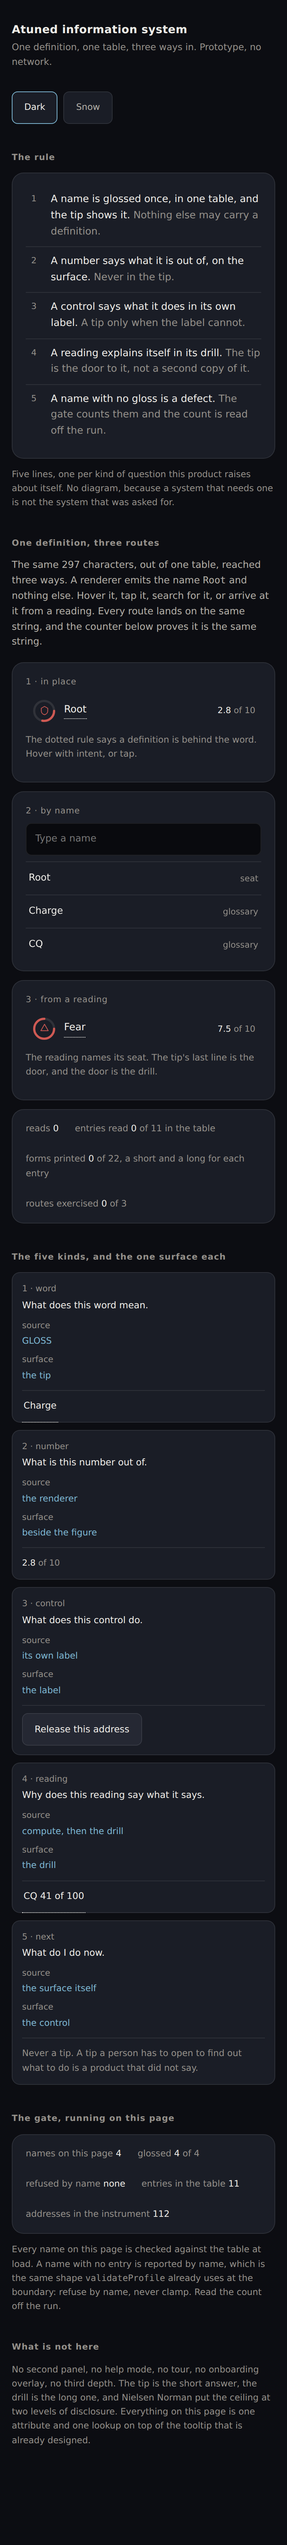
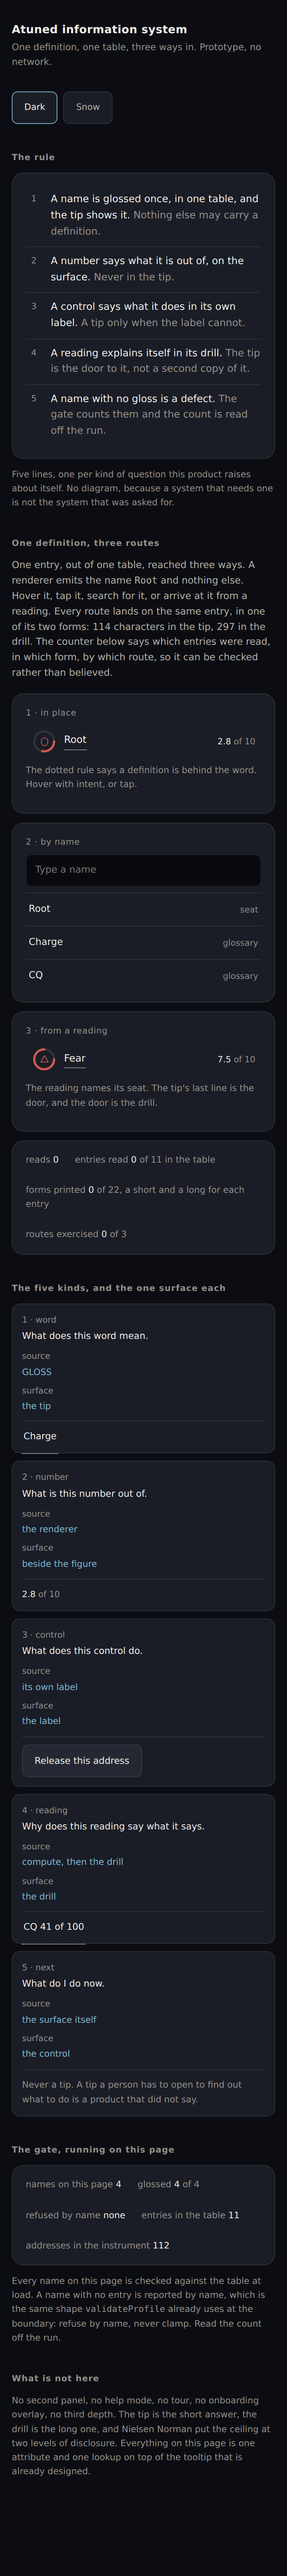
Gate counts read off the run, not typed
Engine 843 and design 105. The design count was typed as 103 from a guess one
commit ago, which is the exact defect this file spends a paragraph warning
about. Read off the run.

The other files are seats still working. Snapshot, not finished.

Claude-Session: https://claude.ai/code/session_016LLF9NZj8M8zDK26vbWgWq

diff --git a/proto/avatar/one-armature.html b/proto/avatar/one-armature.html
@@ -485,7 +485,24 @@ function numsHtml(v){
   +r('Carrying',v.carrying,'addresses')
   +r('Chain, held',v.chainHeld,'')
   +r('Chain, overshot',v.chainOver,'')
-  +(v.heaviest?r('Heaviest',v.heaviest.k.slice(0,16),v.heaviest.b):'');}
+  +(v.heaviest?r('Heaviest',cut(v.heaviest.k,17),v.heaviest.b):'');}
+/* a name cut mid word is a name the surface has lied about the length of */
+function cut(s,n){
+ s=String(s); if(s.length<=n)return s;
+ var t=s.slice(0,n); var sp=t.lastIndexOf(' ');
+ return (sp>4?t.slice(0,sp):t)+'…';}
+/* LABELS COLLIDE WHEN THE THING THEY NAME IS CLOSE TOGETHER. The seven seats
+   run from 4.98 to 53.55 on the figure, so the crown, the brow and the throat
+   sit 25 pixels apart while a two line label is 30 tall. The rail pushes them
+   down to a floor and keeps the order, which is what a rail is for and what a
+   painted name could never do. cone.js:213 records the 89 colliding pairs that
+   taught this project the rule. */
+function spread(ys,gap,lo,hi){
+ var o=ys.slice();
+ for(var i=1;i<o.length;i++) if(o[i]-o[i-1]<gap) o[i]=o[i-1]+gap;
+ var over=o[o.length-1]-hi;
+ if(over>0) for(var j=o.length-1;j>=0;j--) o[j]=Math.max(lo+j*gap,o[j]-over);
+ return o;}
 
 function pegs(){
  var h='';
@@ -681,10 +698,10 @@ function report(){
 /* ============================================================
    APPROACH ONE. THE ARMATURE.
 
-   A body, and only the parts of a body that carry a reading: a
-   spine, seven seats on it, and the frame that hangs off them. No
-   face, no mass, no clothing, no sex, no age. An armature is what
-   a figure is built on, which is the right object for a record,
+   A body reduced to the parts that carry a reading: a spine,
+   seven seats on it, and the frame that hangs off them. No face,
+   no mass, no clothing, no sex, no age. An armature is what a
+   figure is built on, which is the right object for a record,
    because an armature is a thing you add to.
 
    The body is not a metaphor here. Every one of the 112 addresses
@@ -692,28 +709,36 @@ function report(){
    straight out of PMBANDS, the same numbers the pain map places
    its regions with.
 
-   THREE CHANNELS, THREE MARKS, AND THEY CANNOT BE CONFUSED.
-   RECORD   the line work. Continuous where a release has reached,
-            broken where it has not. Broken is not damage, it is
-            unbuilt.
-   REACH    the outer dotted ring at each seat. Where that seat
-            could get with nothing held. Turn a peg seated there
-            and it moves out, under the hand, now.
-   WEATHER  the grey calipers pressing in from outside the ring.
-            Pressure is never drawn in a seat colour, because
-            pressure is not a property of the seat.
+   THREE CHANNELS, AND THE SECOND VERSION SPLIT THEM IN TWO PLACES
+   RATHER THAN STACKING THEM. The first version drew a reach ring,
+   a standing ring and a ring of calipers concentric at every seat:
+   twenty one circles and up to a hundred and twelve spokes on a
+   three hundred pixel figure, which is a sea urchin and is exactly
+   what BULKY means. The record stays on the body, where it belongs,
+   and everything numeric moved to a gauge beside it.
+
+   BODY    the record. Line work continuous where a release has
+           reached, broken where it has not, and one ring per seat
+           carrying the arcs for touched and emptied.
+   GAUGE   the reach and where you stand. A dotted line out to what
+           this seat reaches with nothing held, a solid line out to
+           where it is, and a bead at the end of the solid one. Turn
+           a peg seated here and the dotted line grows under your
+           hand.
+   BAR     today. A grey bar under the gauge, as long as the share
+           of the seat that is carrying, as dark as what it holds.
    ============================================================ */
-var HERO_W=300, HERO_H=500, STRIP_W=128, STRIP_H=224, SHEET_W=98, SHEET_H=172;
+var HERO_W=344, HERO_H=500, STRIP_W=140, STRIP_H=210, SHEET_W=106, SHEET_H=160;
 var KEYHTML=
  '<div class="key">'
- +'<div><b>Line work, the record</b>Continuous where a release has reached, broken where it '
- +'has not. Nothing in this product can make a continuous segment broken again.</div>'
- +'<div><b>Outer dotted ring, the reach</b>How far that seat gets with nothing held. It is '
- +'the mark the pegs move, and it is the only one they move.</div>'
- +'<div><b>Solid inner ring, where you stand</b>Between the two is what a release still has '
- +'in it at that seat.</div>'
- +'<div><b>Grey ticks, today</b>One inward tick per share of the seat that is carrying. '
- +'They come back on a hard month and they move no line.</div>'
+ +'<div><b>The body, the record</b>Line work continuous where a release has reached, broken '
+ +'where it has not, and an arc on each seat ring for what has been touched and emptied. '
+ +'Nothing in this product can make a continuous segment broken again.</div>'
+ +'<div><b>The gauge, the reach</b>Dotted to what the seat reaches with nothing held, solid '
+ +'to where it stands, a bead at the end of the solid. The gap between them is what a '
+ +'release still has in it. The pegs move the dotted end and nothing else does.</div>'
+ +'<div><b>The grey bar, today</b>As long as the share of that seat which is carrying, as '
+ +'dark as what it holds. It comes back on a hard month and it moves no line.</div>'
  +'</div>';
 
 var SEG=[
@@ -733,11 +758,22 @@ var SEG=[
  {b:'Root',    m:1, p:[[55.2,90.6],[58.4,96.4],[51.4,96.8],[51.6,90.6]]},
  {b:'Sacral',  m:0, p:[[43.4,55.8],[50,59.6],[56.6,55.8]]}];
 
+/* the figure and the gauge share one vertical space and split the horizontal */
+function geo(W,H){
+ var pad=13, fh=H-pad*2;
+ var bodyW=Math.min(fh*0.44,W*0.60);
+ var gx0=Math.min(W-6, pad+bodyW+ (W>240?16:8));
+ return {pad:pad, fh:fh, fw:bodyW, cx:pad+bodyW/2,
+  gx0:gx0, gw:Math.max(10,W-6-gx0),
+  X:function(u){return pad+bodyW/2+(u-50)/100*bodyW*2;},
+  Y:function(q){return pad+q/100*fh;}};}
+function seatY(g,b){return g.Y(SEATY[b]*100);}
+
 function labels(v){
- var pad=14, fh=HERO_H-pad*2, h='';
- v.seats.forEach(function(s){
-  var y=pad+SEATY[s.b]*fh;
-  h+='<span style="top:'+y.toFixed(1)+'px;color:'+SEATCOL[s.b]
+ var g=geo(HERO_W,HERO_H), h='';
+ var ys=spread(v.seats.map(function(s){return seatY(g,s.b);}),30,14,HERO_H-14);
+ v.seats.forEach(function(s,i){
+  h+='<span style="top:'+ys[i].toFixed(1)+'px;color:'+SEATCOL[s.b]
    +(v.seatPick===s.b?';font-weight:600':'')+'">'+s.b
    +'<i>reaches '+s.reach+', stands at '+s.at+', of 100<br>'
    +s.touched+' touched, '+s.opened+' emptied, of '+s.n+'</i></span>';});
@@ -748,10 +784,6 @@ function flat(v){
    +', stands at '+s.at+', of 100. '+s.touched+' touched, '+s.opened+' emptied, of '
    +s.n+'</i></div>';}).join('');}
 
-function fig(W,H){
- var pad=14, fh=H-pad*2, fw=Math.min(fh*0.5,(W-pad*2));
- return {fh:fh,fw:fw,X:function(u){return W/2+(u-50)/100*fw*2;},
-  Y:function(q){return pad+q/100*fh;}};}
 function drawSeg(x,g,seg,built,a,wd){
  x.beginPath();
  seg.p.forEach(function(pt,i){var px=g.X(pt[0]),py=g.Y(pt[1]);
@@ -762,10 +794,10 @@ function drawSeg(x,g,seg,built,a,wd){
 
 function draw(x,W,H,v,t,mode){
  if(!v)return;
- var g=fig(W,H), small=(mode!=='hero');
+ var g=geo(W,H), small=(mode!=='hero');
  x.lineCap='round'; x.lineJoin='round';
  /* THE SPINE. The one thing a person arrives with, so it is a datum and never
-    an achievement. Faint, and the same on every figure in the roster. */
+    an achievement. Faint, and identical on every figure in the roster. */
  x.strokeStyle=rgba('#E8E6E1',0.14); x.lineWidth=small?0.8:1;
  x.beginPath(); x.moveTo(g.X(50),g.Y(3)); x.lineTo(g.X(50),g.Y(58)); x.stroke();
 
@@ -775,57 +807,65 @@ function draw(x,W,H,v,t,mode){
   var built=(s.touched>0||s.opened>0);
   var a=built?lerp(0.48,0.95,Math.min(1,(s.touched+s.opened)/s.n)):0.9;
   x.strokeStyle=SEATCOL[seg.b];
-  drawSeg(x,g,seg,built,a,small?1.1:1.5);
+  drawSeg(x,g,seg,built,a,small?1:1.4);
   if(seg.m)drawSeg(x,g,{b:seg.b,p:seg.p.map(function(pt){return [100-pt[0],pt[1]];})},
-   built,a,small?1.1:1.5);});
+   built,a,small?1:1.4);});
 
+ /* ONE RING PER SEAT, AT THE PAIN MAP'S OWN RADIUS, and it carries the record
+    and nothing else. The whole circumference is the whole seat, so an arc on
+    it already says what it is out of. */
  BANDS.forEach(function(b,i){
-  var s=byB[b], cx=g.X(50), cy=g.Y(SEATY[b]*100);
-  var br=breath(v.CQ,t,i);
-  var base=(SEATR[b]/100)*g.fw*1.02*(1+br);
-  /* THE REACH. The outer dotted ring. Where this seat gets with nothing held.
-     It is the only mark on the figure a peg moves, and it moves at once. */
-  var rReach=base*lerp(0.72,1.42,s.reach/100);
-  x.strokeStyle=rgba(SEATCOL[b],v.seatPick===b?0.40:0.26);
-  x.lineWidth=small?0.8:1; x.setLineDash([1.2,2.8]);
-  x.beginPath(); x.arc(cx,cy,rReach,0,Math.PI*2); x.stroke(); x.setLineDash([]);
-  /* WHERE IT STANDS. The solid inner ring. Between the two rings is what a
-     release still has in it at this seat, drawn rather than printed. */
-  var rAt=base*lerp(0.72,1.42,s.at/100);
-  x.strokeStyle=rgba('#E8E6E1',0.30); x.lineWidth=small?0.8:1.1;
-  x.beginPath(); x.arc(cx,cy,rAt,0,Math.PI*2); x.stroke();
-  /* THE RECORD. On the standing ring. Bright arc is touched, dim outer arc is
-     emptied, and both are drawn on a mark that already says what it is out of
-     because the whole circumference is the whole seat. */
+  var s=byB[b], cx=g.X(50), cy=seatY(g,b);
+  var rad=(SEATR[b]/100)*g.fw*0.92*(1+breath(v.CQ,t,i));
+  x.strokeStyle=rgba('#E8E6E1',0.10); x.lineWidth=small?0.7:0.9;
+  x.setLineDash([1,2.6]); x.beginPath(); x.arc(cx,cy,rad,0,Math.PI*2); x.stroke();
+  x.setLineDash([]);
   if(s.opened>0){
-   x.strokeStyle=rgba(SEATCOL[b],0.44); x.lineWidth=small?1.2:1.7;
-   x.beginPath(); x.arc(cx,cy,rAt+(small?2:3),-Math.PI/2,
+   x.strokeStyle=rgba(SEATCOL[b],0.42); x.lineWidth=small?1.2:1.7;
+   x.beginPath(); x.arc(cx,cy,rad+(small?1.8:2.6),-Math.PI/2,
     -Math.PI/2+Math.PI*2*(s.opened/s.n)); x.stroke();}
   if(s.touched>0){
-   x.strokeStyle=rgba(SEATCOL[b],0.96); x.lineWidth=small?1.6:2.2;
-   x.beginPath(); x.arc(cx,cy,rAt,-Math.PI/2,-Math.PI/2+Math.PI*2*(s.touched/s.n));
-   x.stroke();}
-  /* THE CALIPERS. Count is the share of the seat carrying, length is the load.
-     Driven by mean load alone the channel was invisible where it matters most:
-     a field carrying 84 addresses at a mean of 1.27 rounded to two ticks. */
-  var share=s.carrying/s.n;
-  var n=Math.round(share*(small?10:16));
-  if(n>0){
-   x.strokeStyle=rgba('#94908A',cl(0.26+s.load/7*0.55,0,0.86));
-   x.lineWidth=small?0.8:1.1;
-   var Ln=(small?2.5:4)+cl(s.load/7,0,1)*(small?5:9);
-   for(var k=0;k<n;k++){
-    var a2=(k/n)*Math.PI*2+0.3, r0=rReach+(small?4:6)+Ln, r1=rReach+(small?3:4);
-    x.beginPath();
-    x.moveTo(cx+Math.cos(a2)*r0,cy+Math.sin(a2)*r0);
-    x.lineTo(cx+Math.cos(a2)*r1,cy+Math.sin(a2)*r1); x.stroke();}}
-  /* THE STATED SEAT. One open bracket outside the ring, never a fill and never
-     a word. It says which seat the pair put at the head of the queue. */
+   x.strokeStyle=rgba(SEATCOL[b],0.96); x.lineWidth=small?1.5:2.1;
+   x.beginPath(); x.arc(cx,cy,rad,-Math.PI/2,-Math.PI/2+Math.PI*2*(s.touched/s.n));
+   x.stroke();}});
+
+ /* THE GAUGES. Off the body, one per seat, at the seat's own height, so the
+    eye runs straight across from a place in the body to a distance. */
+ var ys=spread(BANDS.map(function(b){return seatY(g,b);}),small?14:20,
+  g.pad+4,H-g.pad-4);
+ BANDS.forEach(function(b,i){
+  var s=byB[b], y=ys[i], x0=g.gx0, gw=g.gw;
+  var xr=x0+gw*cl(s.reach,0,100)/100;
+  var xa=x0+gw*cl(s.at,0,100)/100;
+  /* the reach. dotted, and the only mark a peg moves. */
+  x.strokeStyle=rgba(SEATCOL[b],0.34); x.lineWidth=small?0.8:1;
+  x.setLineDash([1.4,2.6]);
+  x.beginPath(); x.moveTo(x0,y); x.lineTo(xr,y); x.stroke(); x.setLineDash([]);
+  /* the stop at the end of it, so the reach has an end and not a fade */
+  x.strokeStyle=rgba(SEATCOL[b],0.42); x.lineWidth=small?0.9:1.2;
+  x.beginPath(); x.moveTo(xr,y-(small?2.5:3.5)); x.lineTo(xr,y+(small?2.5:3.5)); x.stroke();
+  /* where it stands */
+  x.strokeStyle=rgba(SEATCOL[b],0.88); x.lineWidth=small?1.3:1.8;
+  x.beginPath(); x.moveTo(x0,y); x.lineTo(xa,y); x.stroke();
+  x.strokeStyle=rgba(SEATCOL[b],0.96); x.lineWidth=small?1:1.4;
+  x.beginPath(); x.arc(xa,y,small?1.8:2.5,0,Math.PI*2); x.stroke();
+  /* TODAY. a grey bar under the gauge, as long as the share of the seat that
+     is carrying and as dark as what it holds. two facts, one mark, and it is
+     drawn below the line so it can never be mistaken for the reading. */
+  if(s.carrying>0){
+   var bw=gw*cl(s.carrying/s.n,0,1);
+   x.strokeStyle=rgba('#94908A',cl(0.22+cl(s.load/7,0,1)*0.58,0,0.82));
+   x.lineWidth=small?1.4:2;
+   x.beginPath(); x.moveTo(x0,y+(small?4:5.5)); x.lineTo(x0+bw,y+(small?4:5.5)); x.stroke();}
+  /* THE STATED SEAT. one bracket around its gauge, never a word and never a
+     fill. it says which seat the pair put at the head of the queue. */
   if(v.seatPick===b){
-   x.strokeStyle=rgba(SEATCOL[b],0.95); x.lineWidth=small?1.2:1.7;
-   var rb=rReach+(small?7:11);
-   x.beginPath(); x.arc(cx,cy,rb,-Math.PI*0.80,-Math.PI*0.20); x.stroke();
-   x.beginPath(); x.arc(cx,cy,rb,Math.PI*0.20,Math.PI*0.80); x.stroke();}});
+   x.strokeStyle=rgba(SEATCOL[b],0.95); x.lineWidth=small?1:1.4;
+   var hh=small?6:8;
+   [[x0-4,1],[x0+gw+3,-1]].forEach(function(q){
+    x.beginPath();
+    x.moveTo(q[0]+q[1]*3,y-hh); x.lineTo(q[0],y-hh);
+    x.lineTo(q[0],y+hh); x.lineTo(q[0]+q[1]*3,y+hh); x.stroke();});}});
 }
 
 </script>

diff --git a/proto/avatar/three-seam.html b/proto/avatar/three-seam.html
@@ -485,7 +485,24 @@ function numsHtml(v){
   +r('Carrying',v.carrying,'addresses')
   +r('Chain, held',v.chainHeld,'')
   +r('Chain, overshot',v.chainOver,'')
-  +(v.heaviest?r('Heaviest',v.heaviest.k.slice(0,16),v.heaviest.b):'');}
+  +(v.heaviest?r('Heaviest',cut(v.heaviest.k,17),v.heaviest.b):'');}
+/* a name cut mid word is a name the surface has lied about the length of */
+function cut(s,n){
+ s=String(s); if(s.length<=n)return s;
+ var t=s.slice(0,n); var sp=t.lastIndexOf(' ');
+ return (sp>4?t.slice(0,sp):t)+'…';}
+/* LABELS COLLIDE WHEN THE THING THEY NAME IS CLOSE TOGETHER. The seven seats
+   run from 4.98 to 53.55 on the figure, so the crown, the brow and the throat
+   sit 25 pixels apart while a two line label is 30 tall. The rail pushes them
+   down to a floor and keeps the order, which is what a rail is for and what a
+   painted name could never do. cone.js:213 records the 89 colliding pairs that
+   taught this project the rule. */
+function spread(ys,gap,lo,hi){
+ var o=ys.slice();
+ for(var i=1;i<o.length;i++) if(o[i]-o[i-1]<gap) o[i]=o[i-1]+gap;
+ var over=o[o.length-1]-hi;
+ if(over>0) for(var j=o.length-1;j>=0;j--) o[j]=Math.max(lo+j*gap,o[j]-over);
+ return o;}
 
 function pegs(){
  var h='';

diff --git a/proto/avatar/two-lantern.html b/proto/avatar/two-lantern.html
@@ -485,7 +485,24 @@ function numsHtml(v){
   +r('Carrying',v.carrying,'addresses')
   +r('Chain, held',v.chainHeld,'')
   +r('Chain, overshot',v.chainOver,'')
-  +(v.heaviest?r('Heaviest',v.heaviest.k.slice(0,16),v.heaviest.b):'');}
+  +(v.heaviest?r('Heaviest',cut(v.heaviest.k,17),v.heaviest.b):'');}
+/* a name cut mid word is a name the surface has lied about the length of */
+function cut(s,n){
+ s=String(s); if(s.length<=n)return s;
+ var t=s.slice(0,n); var sp=t.lastIndexOf(' ');
+ return (sp>4?t.slice(0,sp):t)+'…';}
+/* LABELS COLLIDE WHEN THE THING THEY NAME IS CLOSE TOGETHER. The seven seats
+   run from 4.98 to 53.55 on the figure, so the crown, the brow and the throat
+   sit 25 pixels apart while a two line label is 30 tall. The rail pushes them
+   down to a floor and keeps the order, which is what a rail is for and what a
+   painted name could never do. cone.js:213 records the 89 colliding pairs that
+   taught this project the rule. */
+function spread(ys,gap,lo,hi){
+ var o=ys.slice();
+ for(var i=1;i<o.length;i++) if(o[i]-o[i-1]<gap) o[i]=o[i-1]+gap;
+ var over=o[o.length-1]-hi;
+ if(over>0) for(var j=o.length-1;j>=0;j--) o[j]=Math.max(lo+j*gap,o[j]-over);
+ return o;}
 
 function pegs(){
  var h='';

diff --git a/proto/info/info.html b/proto/info/info.html
@@ -396,10 +396,12 @@ itself. No diagram, because a system that needs one is not the system that
 was asked for.</p>
 
 <h2>One definition, three routes</h2>
-<p class="lead">The same 297 characters, out of one table, reached three ways.
-A renderer emits the name <code>Root</code> and nothing else. Hover it, tap it,
-search for it, or arrive at it from a reading. Every route lands on the same
-string, and the counter below proves it is the same string.</p>
+<p class="lead">One entry, out of one table, reached three ways. A renderer
+emits the name <code>Root</code> and nothing else. Hover it, tap it, search for
+it, or arrive at it from a reading. Every route lands on the same entry, in one
+of its two forms: 114 characters in the tip, 297 in the drill. The counter
+below says which entries were read, in which form, by which route, so it can be
+checked rather than believed.</p>
 
 <div class="three">
  <div class="card">

diff --git a/proto/info/info.src.html b/proto/info/info.src.html
@@ -160,10 +160,12 @@ itself. No diagram, because a system that needs one is not the system that
 was asked for.</p>
 
 <h2>One definition, three routes</h2>
-<p class="lead">The same 297 characters, out of one table, reached three ways.
-A renderer emits the name <code>Root</code> and nothing else. Hover it, tap it,
-search for it, or arrive at it from a reading. Every route lands on the same
-string, and the counter below proves it is the same string.</p>
+<p class="lead">One entry, out of one table, reached three ways. A renderer
+emits the name <code>Root</code> and nothing else. Hover it, tap it, search for
+it, or arrive at it from a reading. Every route lands on the same entry, in one
+of its two forms: 114 characters in the tip, 297 in the drill. The counter
+below says which entries were read, in which form, by which route, so it can be
+checked rather than believed.</p>
 
 <div class="three">
  <div class="card">

diff --git a/DESIGN-information.md b/DESIGN-information.md
@@ -2,11 +2,19 @@
 
 How this product says what it means. One layer above the tooltip.
 
-    Read against      commit 0e63f4b, source.html md5 bc24308b
-    Tree              dirty. The tooltip's migration step 1 is landed and
-                      uncommitted: ui/tip.js is new, MANIFEST and head.html
-                      are edited, source.html is rebuilt. Every number below
-                      is read against that build, not against the commit.
+    Read against      commit 2d3e0c1, source.html md5 0053d406
+    Re-read against   commit 0e63f4b, source.html md5 bc24308b
+    Tree              moving while this was written. The tooltip's migration
+                      step 1 landed as 73a94ac partway through, and the repo
+                      advanced four commits under the harness. Every figure
+                      below was taken on the earlier build and re-taken on
+                      the later one. EVERY ONE REPRODUCED EXACTLY: the
+                      validation, all ten surface counts, 637 distinct
+                      carriers, the per kind split, the coverage scan, the
+                      six ICP walks and the four live spot checks. Where a
+                      number here differs from the tooltip audit's, it is
+                      because the audit ran three commits earlier, not
+                      because the harness is unstable.
     Measured with     /opt/pw-browsers/chromium-1194, 1600x1000 and 390x844
     Profiles          Lance for the walk, the six ICP entries for the session
     Prototype         proto/info/info.html, runnable, no network
@@ -813,10 +821,13 @@ confusion, held next to their somatic self report, and the privacy rulings
 here are structural. I have built the counter in the prototype and I have not
 proposed persisting it. That is a boundary question and it is not mine.
 
-**7. `ui/tip.js` is uncommitted in the working tree.** MANIFEST, head.html and
-source.html are edited and not committed. Every number in this document is
-read against that build. If that work is reverted, steps 1 and 2 have nothing
-to attach to and the demand table is unchanged but the route table gets worse.
+**7. Nothing, and this one answered itself.** When I started, `ui/tip.js` was
+uncommitted and I was going to ask whether it was landing. It landed as
+`73a94ac` while this was being written, so steps 1 and 2 have something to
+attach to. I have left the question in because the answer is the useful part:
+the harness was re-run against the new build and every figure held, which is
+the only reason I can hand you numbers from a tree that moved four commits
+underneath them.
 Whose is it, and is it landing?
 
 ---

diff --git a/CLAUDE.md b/CLAUDE.md
@@ -25,10 +25,10 @@ else may.
 
     ./atuned_src/BUILD.sh              parse checks, div balance, no em dashes
     ./atuned_src/BUILD-engine.sh       and asserts the engine is host free
-    node tests/engine.js               838, headless, 0.1s
+    node tests/engine.js               843, headless, 0.1s
     node tests/functional.js           740, real Chromium
     node tests/collide.js              100, no overlapping nameplates
-    node tests/design.js               103, and it is green now
+    node tests/design.js               105, and it is green now
     node tools/monitor.js             every surface renders, and it logs
 
 Those counts were 279, 262, 40 and 22 in this file for long enough that they
